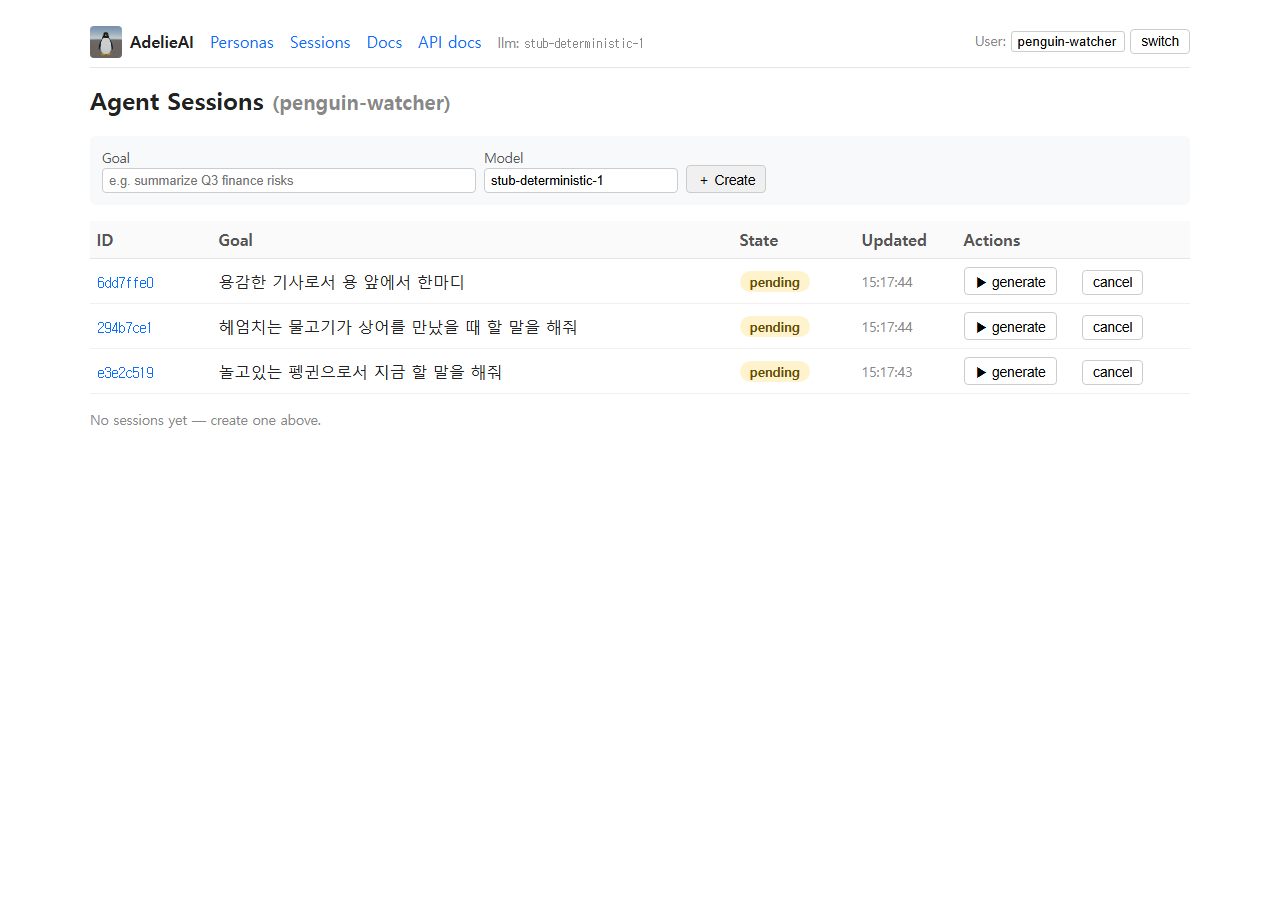
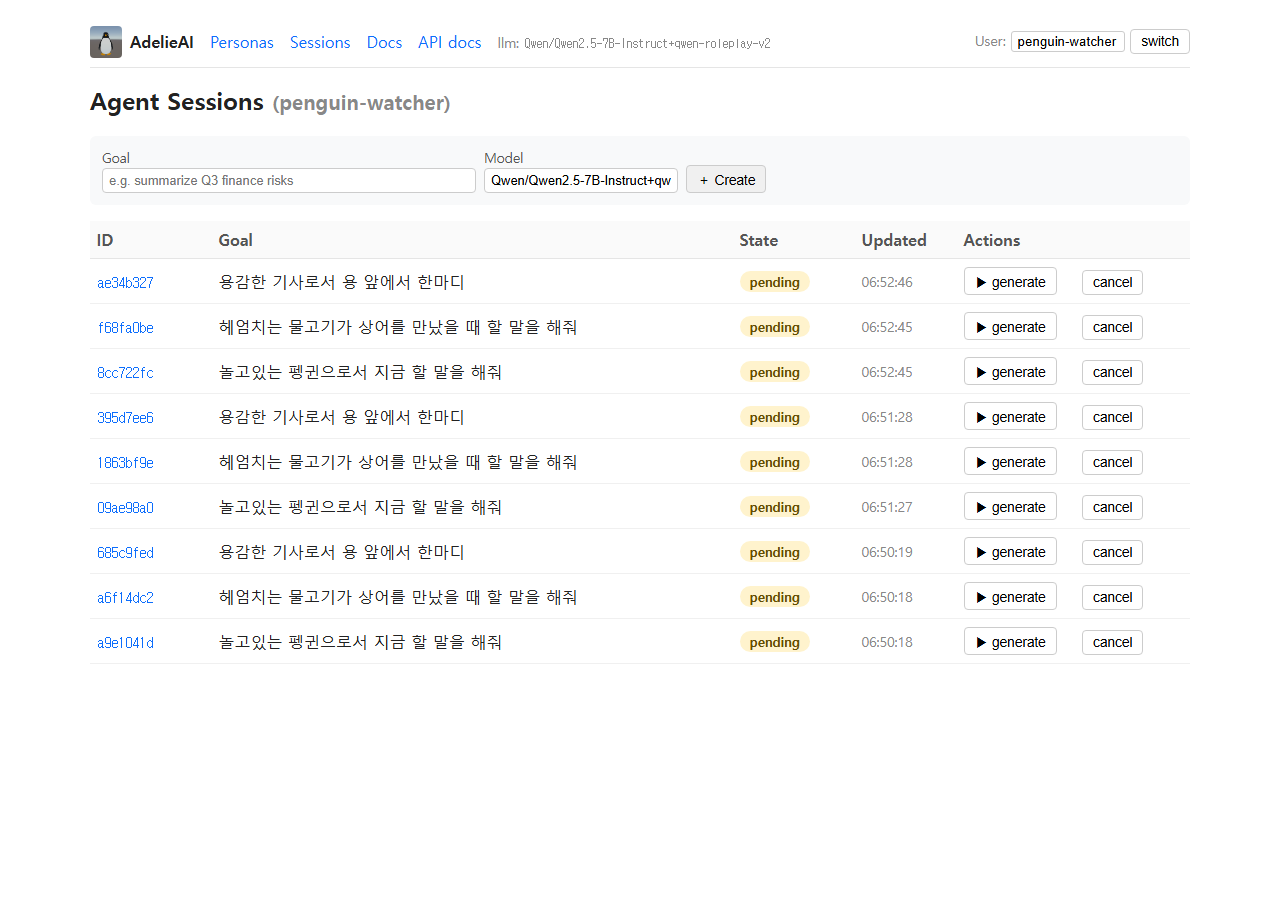
docs: capture screenshots against real Qwen-7B + qwen-roleplay-v2
The previous v0.1.5 commit shipped the chat UI but the screenshots
were taken against the stub LLM, so the assistant bubbles read
"[stub:stub-deterministic-1] received N chars..." — accurate but
unflattering for an OSS landing page.

Re-captured on a single RTX 3090 with the production stack
(Qwen2.5-7B-Instruct + qwen-roleplay-v2 LoRA, embedder/reranker
intentionally skipped to keep generation the only moving piece).
The chat thread now shows real in-character Korean replies with
real per-turn timing (~4-5 s · ~40 tok on a 3090). The top-nav
"llm:" indicator reads "Qwen/Qwen2.5-7B-Instruct+qwen-roleplay-v2"
as live evidence of which model produced the bubbles.

Capture-script changes:
- Reset every default persona before screenshot 01 so the gallery
  reports clean turn counts.
- Replaced the brittle networkidle wait with an explicit
  page.expect_response on the /messages endpoint (real generation
  blows past networkidle), with a 120 s ceiling.

README caveat about stub captures removed; the section now
calls out the live `llm:` indicator instead.

diff --git a/scripts/capture_screenshots.py b/scripts/capture_screenshots.py
@@ -27,10 +27,19 @@ def shot(page: Page, out: Path, name: str) -> None:
 
 
 def _send_message(page: Page, message: str) -> None:
+    """Send a chat message and wait for the response to actually land.
+
+    HTMX XHRs can finish after `networkidle` reports clean (especially
+    when a real LLM takes seconds to generate), so we explicitly wait
+    on the /messages POST response.
+    """
     page.locator("input[name='message']").fill(message)
-    page.locator(".chat-input button[type='submit']").click()
-    page.wait_for_load_state("networkidle", timeout=30_000)
-    time.sleep(0.3)
+    with page.expect_response(
+        lambda r: "/messages" in r.url and r.request.method == "POST",
+        timeout=120_000,
+    ):
+        page.locator(".chat-input button[type='submit']").click()
+    time.sleep(0.5)  # let HTMX swap the response into the DOM
 
 
 def main() -> None:
@@ -55,8 +64,17 @@ def main() -> None:
         page.wait_for_load_state("networkidle")
         time.sleep(0.3)
 
+        # Reset every default persona so the gallery and chat shots
+        # do not carry leftover turns from prior runs.
+        for pid in ("penguin_relaxed", "fish_swimmer", "knight_brave"):
+            page.goto(f"{args.url}/web/chat/{pid}")
+            page.wait_for_load_state("networkidle")
+            page.locator(".chat-header form button[type='submit']").click()
+            page.wait_for_load_state("networkidle")
+
         # 01 — personas gallery: the new hero shot
         page.goto(f"{args.url}/web/personas")
+        page.wait_for_load_state("networkidle")
         time.sleep(0.4)
         shot(page, out, "01_personas")
 

diff --git a/README.md b/README.md
@@ -45,7 +45,7 @@ AdelieAI ships:
 
 ![persona gallery — pick a character to chat with](docs/screenshots/01_personas.png)
 
-Three Korean role-play personas (penguin / fish / knight) ship out of the box. Click a card to open a chat thread; per-turn token count and latency surface inline. The screenshots below are captured against the stub LLM (no GPU required) — mount Qwen-7B + LoRA and the same UI shows real character replies.
+Three Korean role-play personas (penguin / fish / knight) ship out of the box. Click a card to open a chat thread; per-turn token count and latency surface inline. Screenshots above are captured against `Qwen2.5-7B-Instruct + qwen-roleplay-v2` on a single RTX 3090 — note the live `llm:` indicator in the top nav and the in-character Korean replies.
 
 | Frame | What it shows |
 |---|---|
